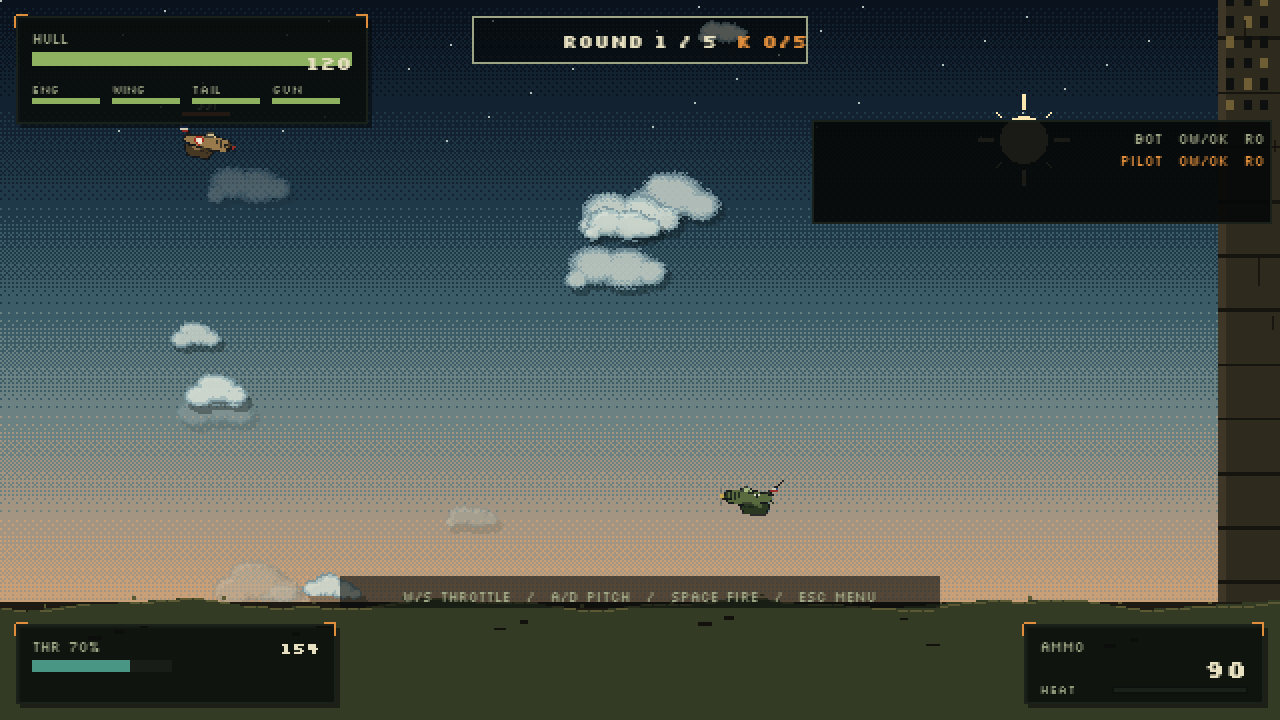
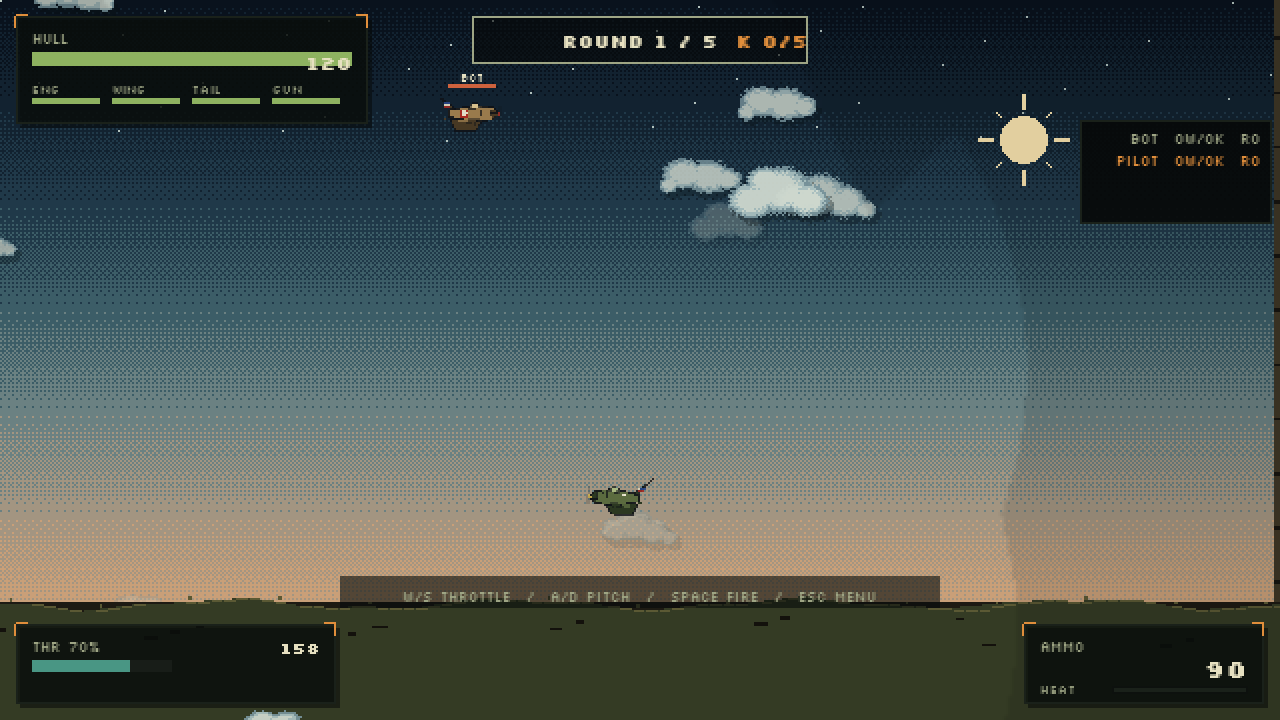
Refresh README screenshots for 0.2.4

diff --git a/README.md b/README.md
@@ -45,7 +45,7 @@ procedurally. There are no large art packs and no runtime downloads.
 
 ### Multiplayer match
 
-![Multiplayer match over the Adriatic](docs/preview-vision-net.png)
+![Multiplayer match over the Adriatic](docs/preview-match.png)
 
 ### Room lobby
 
